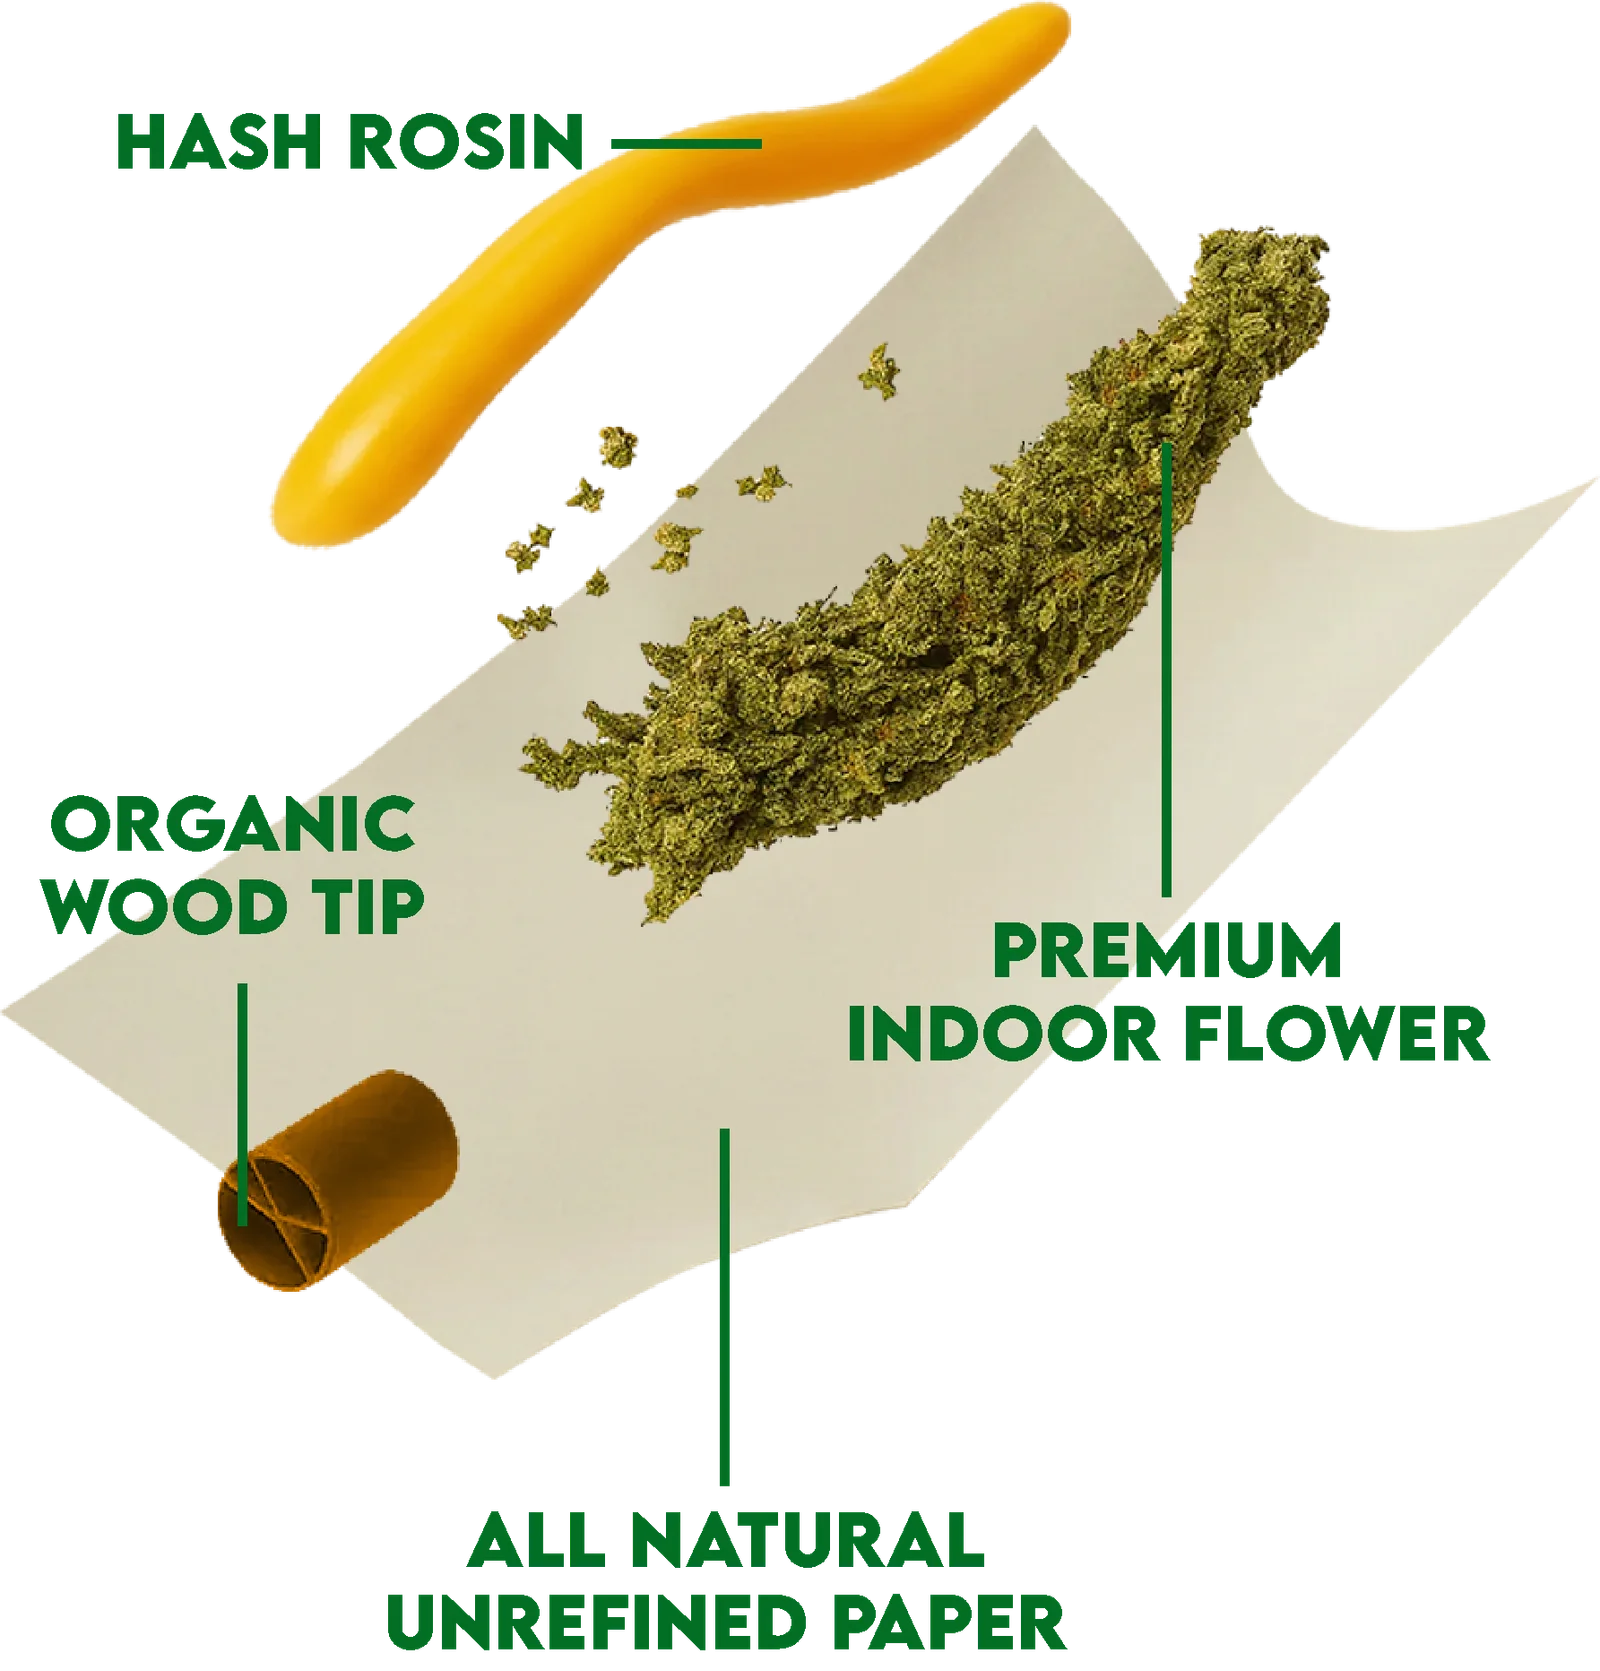
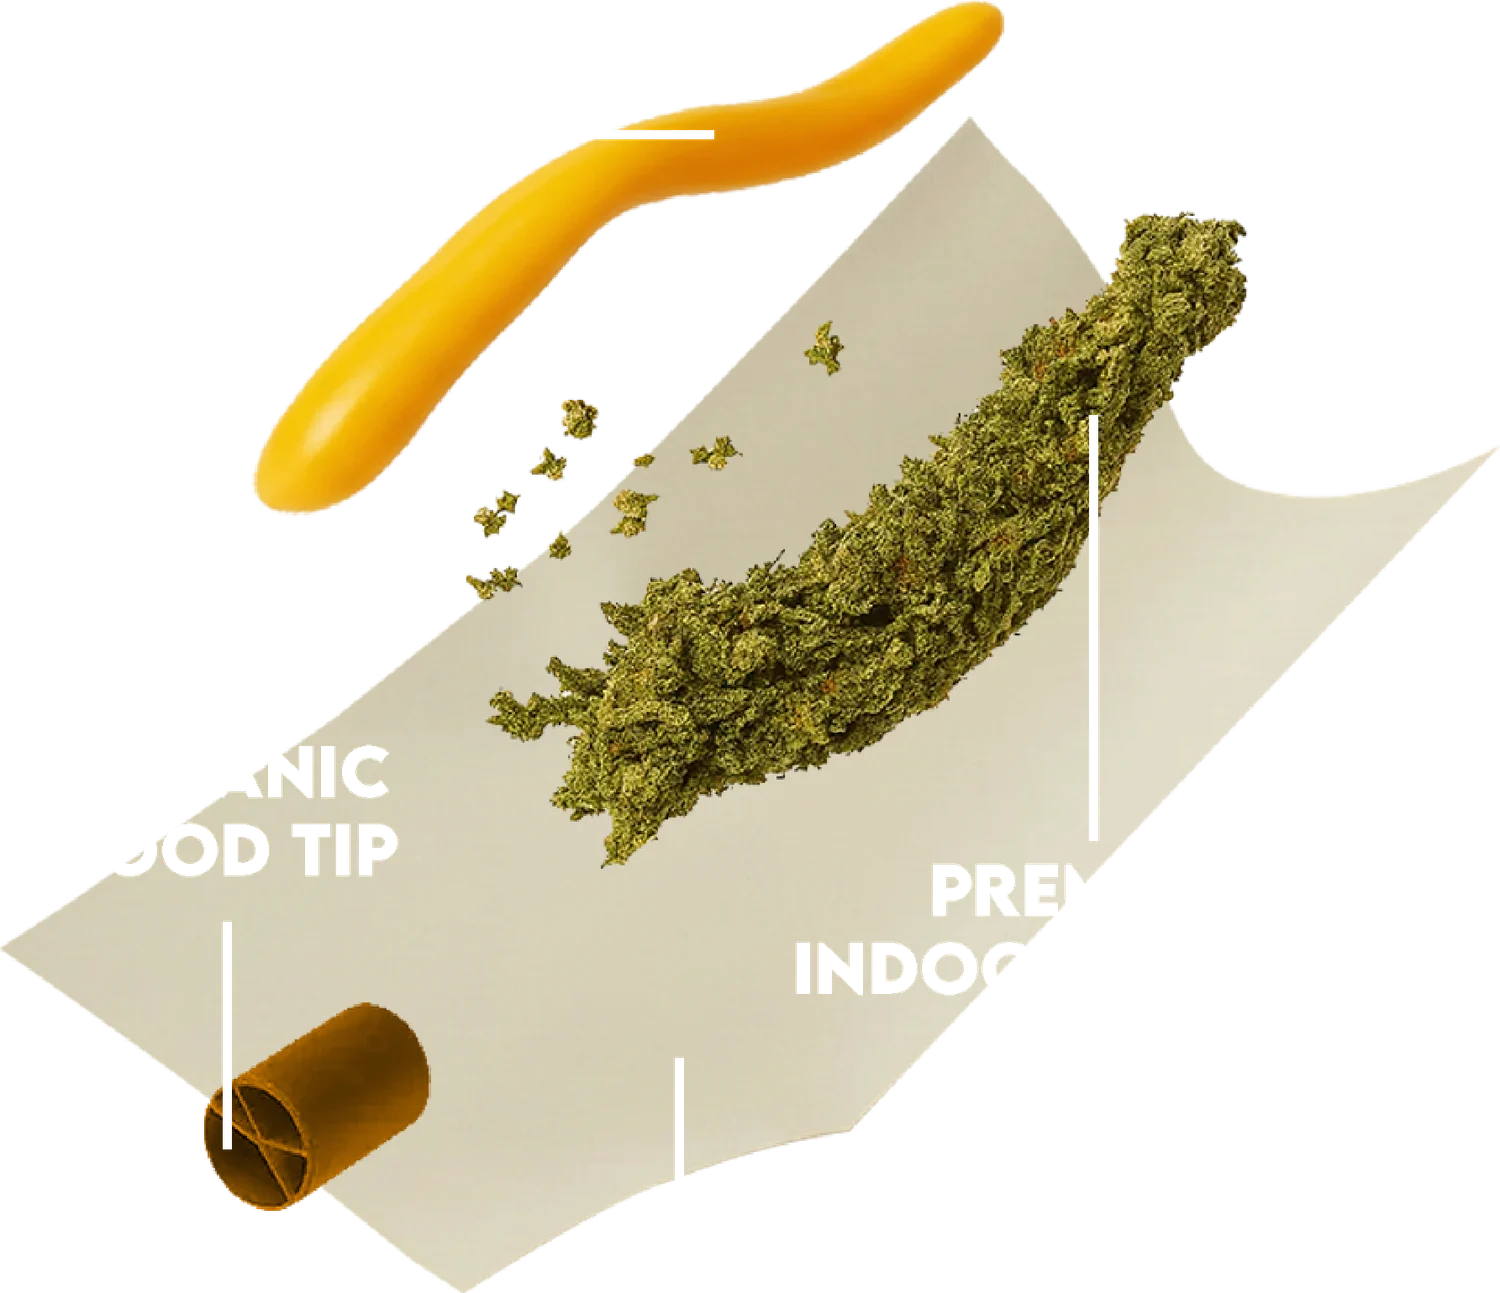
fix(hash-hole): stabilize — un-pin sections, restore footer, fix header
Avanti reported the page wouldn't scroll, footer was missing, and the sticky
header went black. Root cause: the two pinned sections (product 240vh + finale
220vh sticky) plus a missing nav-theme region.

- Un-pinned hh-product → normal-flow reveal section (tube large + float)
- Un-pinned hh-finale → contained 85vh full-bleed scene (object-cover, no
  endless scroll, footer sits right beneath)
- Hero gets data-nav-theme='dark' so the adaptive header samples correctly
  (dark pill over the dark video, light over the sky) instead of sticking
- breakdown.webp now label-free (baked green labels keyed out; HTML labels own)

Stable base — richer section reworks come one at a time next.

diff --git a/components/products/hash-hole/hh-product.tsx b/components/products/hash-hole/hh-product.tsx
@@ -1,55 +1,31 @@
-'use client'
+import Reveal from '@/components/reveal'
 
-import { useEffect, useRef } from 'react'
-import gsap from 'gsap'
-import { ScrollTrigger } from 'gsap/ScrollTrigger'
-
-gsap.registerPlugin(ScrollTrigger)
-
-// Product beat — PINNED. The Hash Hole tube grows massive and spins (in-plane
-// Z rotation, so the flat art never flips edge-on or mirrors) as the section
-// scrubs, while a headline flanks it. Reduced-motion: upright, centered, still.
+// Product beat — a normal-flow section (no pin) so scrolling stays smooth. The
+// tube + joint sit large with a gentle float; copy beside them. Kept simple
+// and reliable; richer motion comes as its own careful pass.
 
 export default function HhProduct() {
-  const rootRef = useRef<HTMLElement>(null)
-
-  useEffect(() => {
-    const root = rootRef.current
-    if (!root) return
-    const mm = gsap.matchMedia()
-    mm.add('(prefers-reduced-motion: no-preference)', () => {
-      const tube = root.querySelector('[data-hh-tube]')
-      const copy = root.querySelectorAll('[data-hh-copy]')
-      if (!tube) return
-      const tl = gsap.timeline({
-        scrollTrigger: { trigger: root, start: 'top top', end: 'bottom bottom', scrub: 0.8 },
-      })
-      // grow from small to huge while spinning in-plane (never mirrors)
-      tl.fromTo(tube, { scale: 0.55, rotate: -14, y: 40 }, { scale: 1.85, rotate: 14, y: 0, ease: 'none' }, 0)
-      if (copy.length) {
-        tl.fromTo(copy, { opacity: 0, y: 30 }, { opacity: 1, y: 0, duration: 0.3, stagger: 0.05 }, 0.05)
-          .to(copy, { opacity: 0, y: -20, duration: 0.25 }, 0.7)
-      }
-      return () => tl.scrollTrigger?.kill()
-    })
-    return () => mm.revert()
-  }, [])
-
   return (
-    <section ref={rootRef} className="relative h-[240vh]">
-      <div className="sticky top-0 flex h-screen items-center justify-center overflow-hidden">
-        {/* flanking copy fades through */}
-        <p data-hh-copy className="absolute bottom-[14vh] right-[4vw] max-w-[30vw] text-right text-sm font-bold uppercase leading-relaxed tracking-wide text-[var(--hh-ink)]/80 md:text-base" style={{ fontFamily: 'var(--font-brand)' }}>
-          2g indoor flower, a .5g rope of live hash rosin, an organic wood tip —
-          all-natural paper. One clean burn, start to finish.
-        </p>
-        {/* eslint-disable-next-line @next/next/no-img-element -- product art */}
-        <img
-          data-hh-tube
-          src="/products/hash-hole/product.webp"
-          alt="Jungle Boys Hash Hole tube and infused joint"
-          className="relative z-10 h-[62vh] w-auto drop-shadow-[0_30px_60px_rgba(0,0,0,0.35)] will-change-transform"
-        />
+    <section className="relative px-6 py-20 md:py-28">
+      <div className="mx-auto grid max-w-[1100px] items-center gap-10 md:grid-cols-2">
+        <Reveal className="order-2 text-center md:order-1 md:text-left">
+          <h2 className="font-display uppercase leading-[0.88] text-[var(--hh-green-deep)]" style={{ fontSize: 'min(13vw, 6rem)' }}>
+            Built to <span className="hh-gold-head">Hit</span>
+          </h2>
+          <p className="mx-auto mt-5 max-w-md text-base font-bold uppercase leading-relaxed tracking-wide text-[var(--hh-ink)]/80 md:mx-0 md:text-lg" style={{ fontFamily: 'var(--font-brand)' }}>
+            2g of premium indoor flower, a .5g rope of live hash rosin, an
+            organic wood tip, all-natural paper. One clean burn, start to finish.
+          </p>
+        </Reveal>
+
+        <Reveal className="order-1 flex justify-center md:order-2">
+          {/* eslint-disable-next-line @next/next/no-img-element -- product art */}
+          <img
+            src="/products/hash-hole/product.webp"
+            alt="Jungle Boys Hash Hole tube and infused joint"
+            className="hh-float w-[min(78vw,440px)] drop-shadow-[0_30px_60px_rgba(0,0,0,0.35)]"
+          />
+        </Reveal>
       </div>
     </section>
   )

diff --git a/components/products/hash-hole/hh-finale.tsx b/components/products/hash-hole/hh-finale.tsx
@@ -1,58 +1,23 @@
-'use client'
-
-import { useEffect, useRef } from 'react'
-import gsap from 'gsap'
-import { ScrollTrigger } from 'gsap/ScrollTrigger'
-
-gsap.registerPlugin(ScrollTrigger)
-
-// Finale — PINNED full-screen. The golf-course scene (Hash Hole mascot on the
-// cart, JB carved in the sand) fills the viewport and pans top-to-bottom as you
-// scrub a short, controlled distance — so the whole scene reveals without
-// endless scrolling. A headline drops in over the green. Reduced-motion: the
-// scene sits centered, static.
+// Finale — a contained full-bleed scene (no pin, no endless scroll). The golf
+// course fills a single tall viewport via object-cover, with a headline over
+// the green. Normal flow so the footer sits right beneath it.
 
 export default function HhFinale() {
-  const rootRef = useRef<HTMLElement>(null)
-
-  useEffect(() => {
-    const root = rootRef.current
-    if (!root) return
-    const mm = gsap.matchMedia()
-    mm.add('(prefers-reduced-motion: no-preference)', () => {
-      const scene = root.querySelector('[data-hh-scene]')
-      const head = root.querySelector('[data-hh-head]')
-      if (!scene) return
-      const tl = gsap.timeline({
-        scrollTrigger: { trigger: root, start: 'top top', end: 'bottom bottom', scrub: 0.9 },
-      })
-      // pan the tall scene from its top (trees/cart) down to the JB sand logo
-      tl.fromTo(scene, { objectPosition: '50% 0%' }, { objectPosition: '50% 100%', ease: 'none' }, 0)
-      if (head) tl.fromTo(head, { opacity: 0, y: -30 }, { opacity: 1, y: 0, duration: 0.25 }, 0).to(head, { opacity: 0, duration: 0.2 }, 0.4)
-      return () => tl.scrollTrigger?.kill()
-    })
-    return () => mm.revert()
-  }, [])
-
   return (
-    <section ref={rootRef} className="relative h-[220vh]">
-      <div className="sticky top-0 h-screen w-full overflow-hidden">
-        {/* eslint-disable-next-line @next/next/no-img-element -- finale scene */}
-        <img
-          data-hh-scene
-          src="/products/hash-hole/golf-scene.webp"
-          alt="Jungle Boys — Hash Hole on the course"
-          className="absolute inset-0 h-full w-full select-none object-cover"
-          style={{ objectPosition: '50% 0%' }}
-        />
-        <div data-hh-head className="absolute inset-x-0 top-[12vh] z-10 text-center">
-          <p className="text-sm font-extrabold uppercase tracking-[0.4em] text-white drop-shadow-[0_3px_10px_rgba(0,0,0,0.5)]" style={{ fontFamily: 'var(--font-brand)' }}>
-            Playing with fire since 2006
-          </p>
-          <h2 className="hh-gold-head font-display mt-2 uppercase leading-[0.85]" style={{ fontSize: 'min(14vw, 8rem)' }}>
-            See You on the Course
-          </h2>
-        </div>
+    <section className="relative h-[85vh] min-h-[520px] w-full overflow-hidden">
+      {/* eslint-disable-next-line @next/next/no-img-element -- finale scene */}
+      <img
+        src="/products/hash-hole/golf-scene.webp"
+        alt="Jungle Boys — Hash Hole on the course"
+        className="absolute inset-0 h-full w-full select-none object-cover object-top"
+      />
+      <div className="absolute inset-x-0 top-[8vh] z-10 text-center">
+        <p className="text-sm font-extrabold uppercase tracking-[0.4em] text-white drop-shadow-[0_3px_10px_rgba(0,0,0,0.5)]" style={{ fontFamily: 'var(--font-brand)' }}>
+          Playing with fire since 2006
+        </p>
+        <h2 className="hh-gold-head font-display mt-2 uppercase leading-[0.85]" style={{ fontSize: 'min(13vw, 7rem)' }}>
+          See You on the Course
+        </h2>
       </div>
     </section>
   )

diff --git a/components/products/hash-hole/hh-hero.tsx b/components/products/hash-hole/hh-hero.tsx
@@ -5,7 +5,8 @@
 export default function HhHero() {
   return (
     <section className="relative px-2 pt-2 md:px-3">
-      <div className="relative h-[92vh] min-h-[560px] overflow-hidden rounded-[1.75rem] bg-[#0b0b0d] md:rounded-[2.5rem]">
+      {/* the header samples this region: dark video → dark header pill */}
+      <div data-nav-theme="dark" className="relative h-[92vh] min-h-[560px] overflow-hidden rounded-[1.75rem] bg-[#0b0b0d] md:rounded-[2.5rem]">
         <video
           className="absolute inset-0 h-full w-full object-cover"
           autoPlay